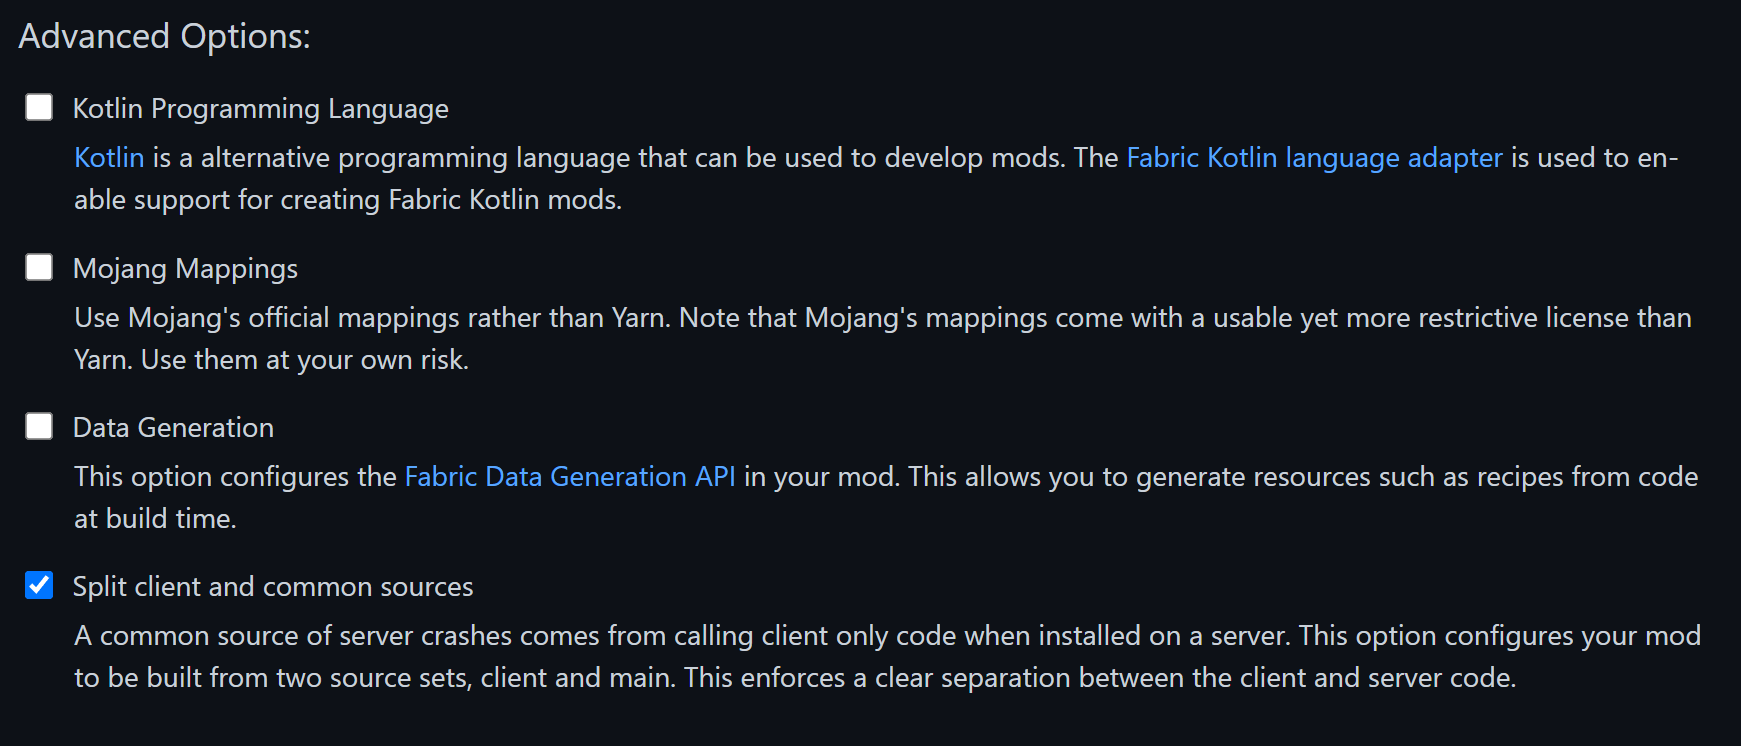
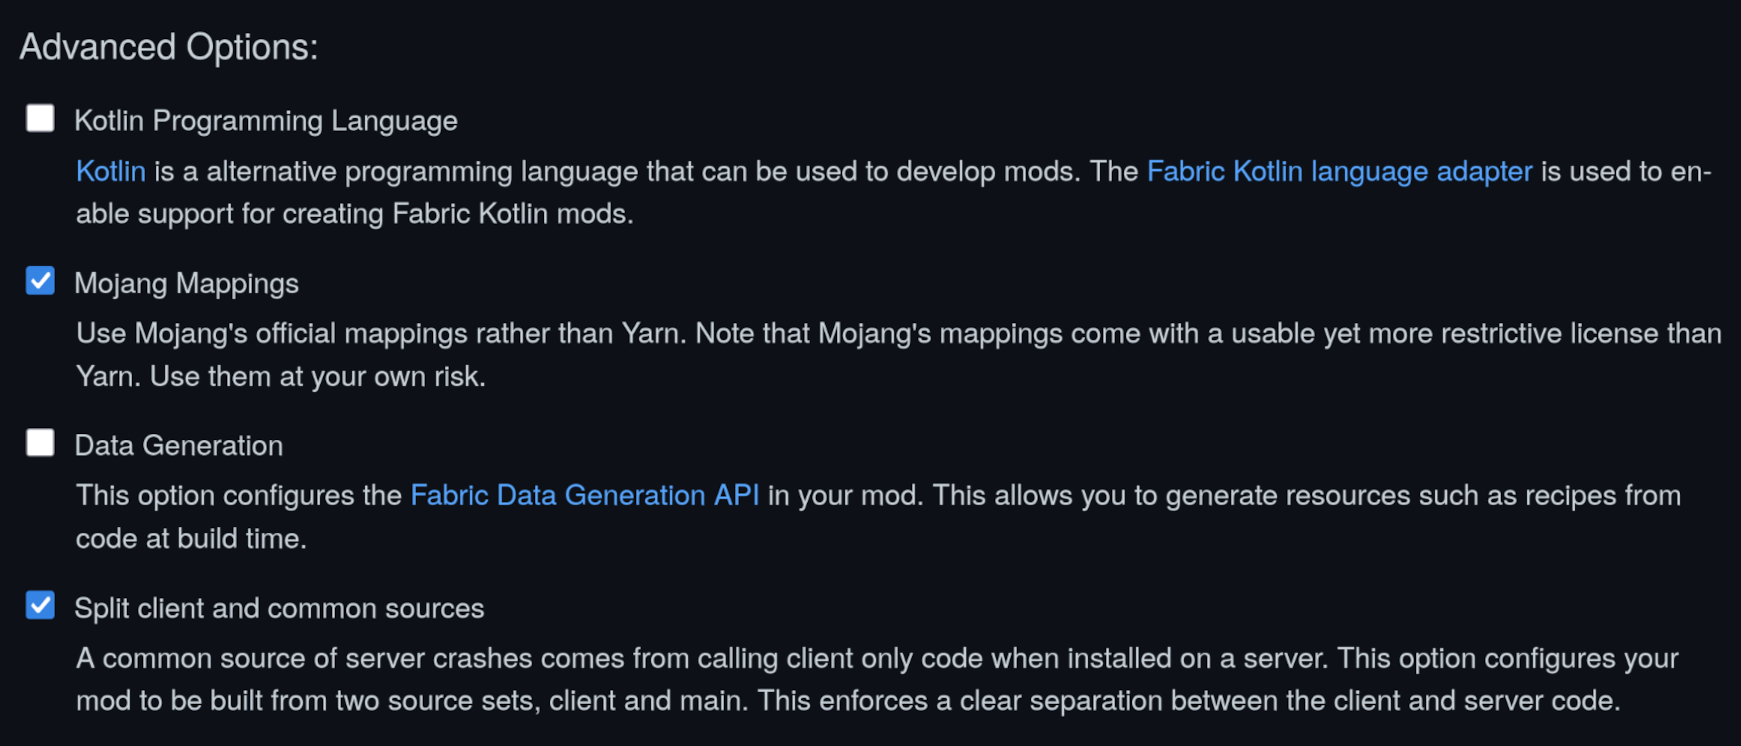
Update creating a project for Mojang Mappings

diff --git a/develop/getting-started/creating-a-project.md b/develop/getting-started/creating-a-project.md
@@ -24,7 +24,11 @@ For example, if your mod ID was **`my-cool-mod`**, instead of _`resources/assets
 
 ![Preview of the generator](/assets/develop/getting-started/template-generator.png)
 
-If you either want to use Kotlin, or Mojang's official mappings rather than the Yarn mappings, or want to add data generators, you can select the appropriate options in the `Advanced Options` section.
+If you either want to use Kotlin, or Fabric's Yarn mappings instead of the default Mojang Mappings, or want to add data generators, you can select the appropriate options in the `Advanced Options` section.
+
+::: info
+Code examples given on this site use Mojang's official [obfuscation mappings](https://docs.fabricmc.net/develop/migrating-mappings#mappings). If your mod is not using the same mappings that these docs are written in, you will need to convert the examples using sites like [mappings.dev](https://mappings.dev/) or [Linkie](https://linkie.shedaniel.dev/mappings?namespace=yarn&translateMode=ns&translateAs=mojang_raw&search=).
+:::
 
 ![Advanced options section](/assets/develop/getting-started/template-generator-advanced.png)
 
